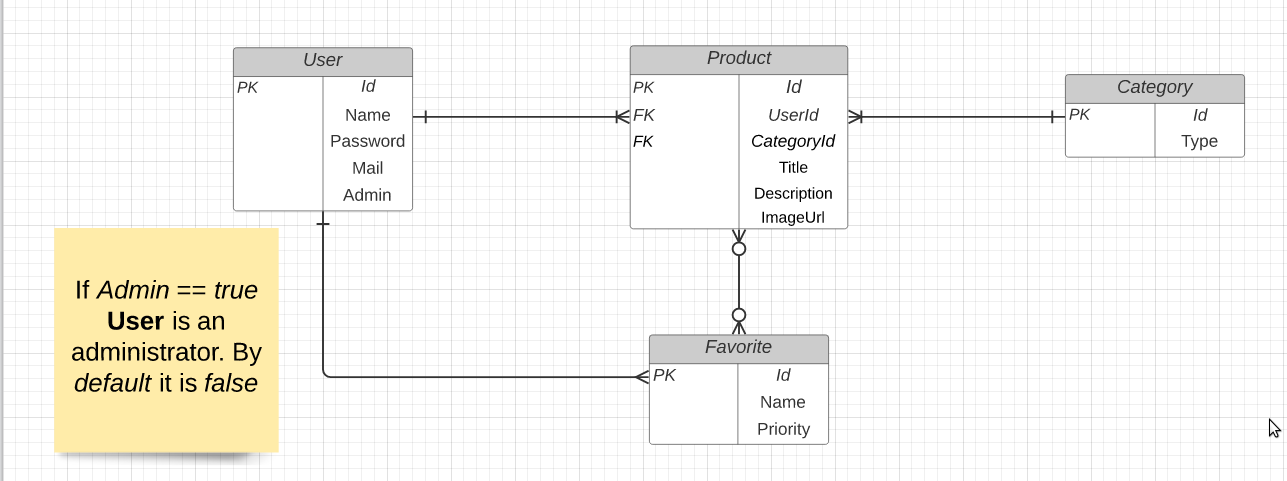
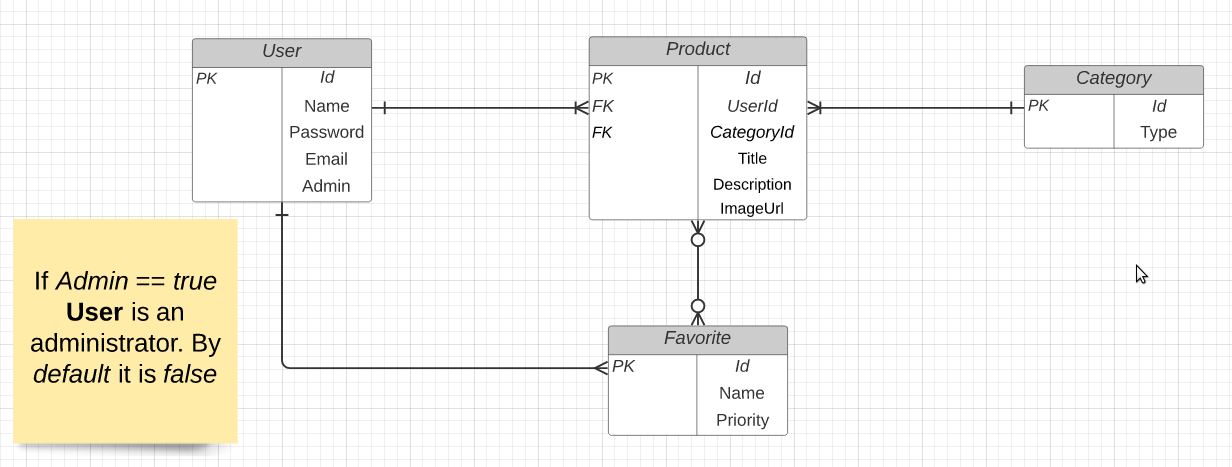
Generate User model

diff --git a/db/migrate/20210223202313_create_users.rb b/db/migrate/20210223202313_create_users.rb
@@ -1,0 +1,12 @@
+class CreateUsers < ActiveRecord::Migration[6.1]
+  def change
+    create_table :users do |t|
+      t.string :name
+      t.string :email
+      t.boolean :admin
+      t.string :password_digest
+
+      t.timestamps
+    end
+  end
+end

diff --git a/spec/models/user_spec.rb b/spec/models/user_spec.rb
@@ -1,0 +1,5 @@
+require 'rails_helper'
+
+RSpec.describe User, type: :model do
+  pending "add some examples to (or delete) #{__FILE__}"
+end

diff --git a/app/models/user.rb b/app/models/user.rb
@@ -1,0 +1,2 @@
+class User < ApplicationRecord
+end
